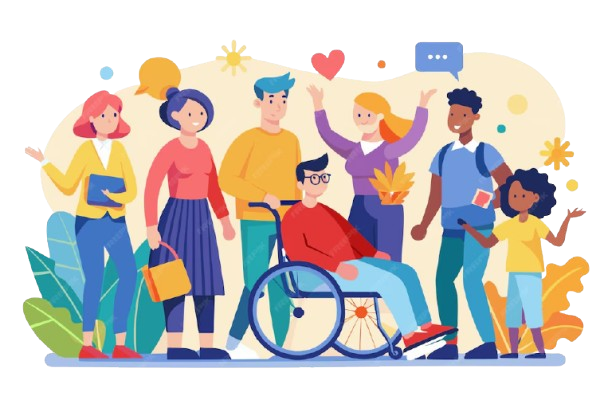
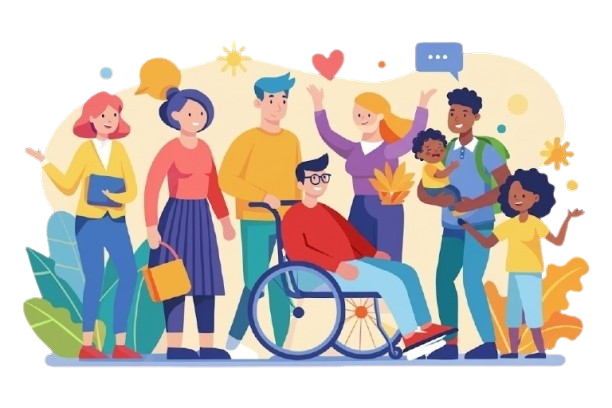
images changed

diff --git a/frontend/src/pages/PageShell.jsx b/frontend/src/pages/PageShell.jsx
@@ -2,7 +2,7 @@ import { motion } from 'framer-motion'
 import Navbar from '../components/Navbar.jsx'
 import Footer from '../components/Footer.jsx'
 
-export default function PageShell({ title, subtitle, children, compact = false, heroPadding, fullWidth = false, subtitleClass = "text-[#0197B2]" }) {
+export default function PageShell({ title, subtitle, children, compact = false, heroPadding, fullWidth = false, subtitleClass = "text-[#0197B2]", titleClass = "text-[#5BCB2B]" }) {
   return (
     <div className="min-h-screen bg-white text-slate-900">
       <Navbar />
@@ -25,7 +25,7 @@ export default function PageShell({ title, subtitle, children, compact = false, 
             initial={{ opacity: 0, y: 20 }}
             animate={{ opacity: 1, y: 0 }}
             transition={{ duration: 0.6, delay: 0.05 }}
-            className="mt-4 font-display text-4xl font-extrabold tracking-tight text-[#5BCB2B] sm:text-5xl"
+            className={`mt-4 font-display text-4xl font-extrabold tracking-tight sm:text-5xl ${titleClass}`}
           >
             {title}
           </motion.h1>

diff --git a/frontend/src/pages/AboutPage.jsx b/frontend/src/pages/AboutPage.jsx
@@ -3,7 +3,14 @@ import About from '../components/About.jsx'
 
 export default function AboutPage() {
   return (
-    <PageShell title="About" subtitle="What Vyuga is and why it matters." heroPadding="pt-20 pb-2" fullWidth={true}>
+    <PageShell 
+      title="About" 
+      subtitle="What Vyuga is and why it matters." 
+      heroPadding="pt-20 pb-2" 
+      fullWidth={true}
+      titleClass="text-slate-900"
+      subtitleClass="text-slate-900"
+    >
       <About />
     </PageShell>
   )
